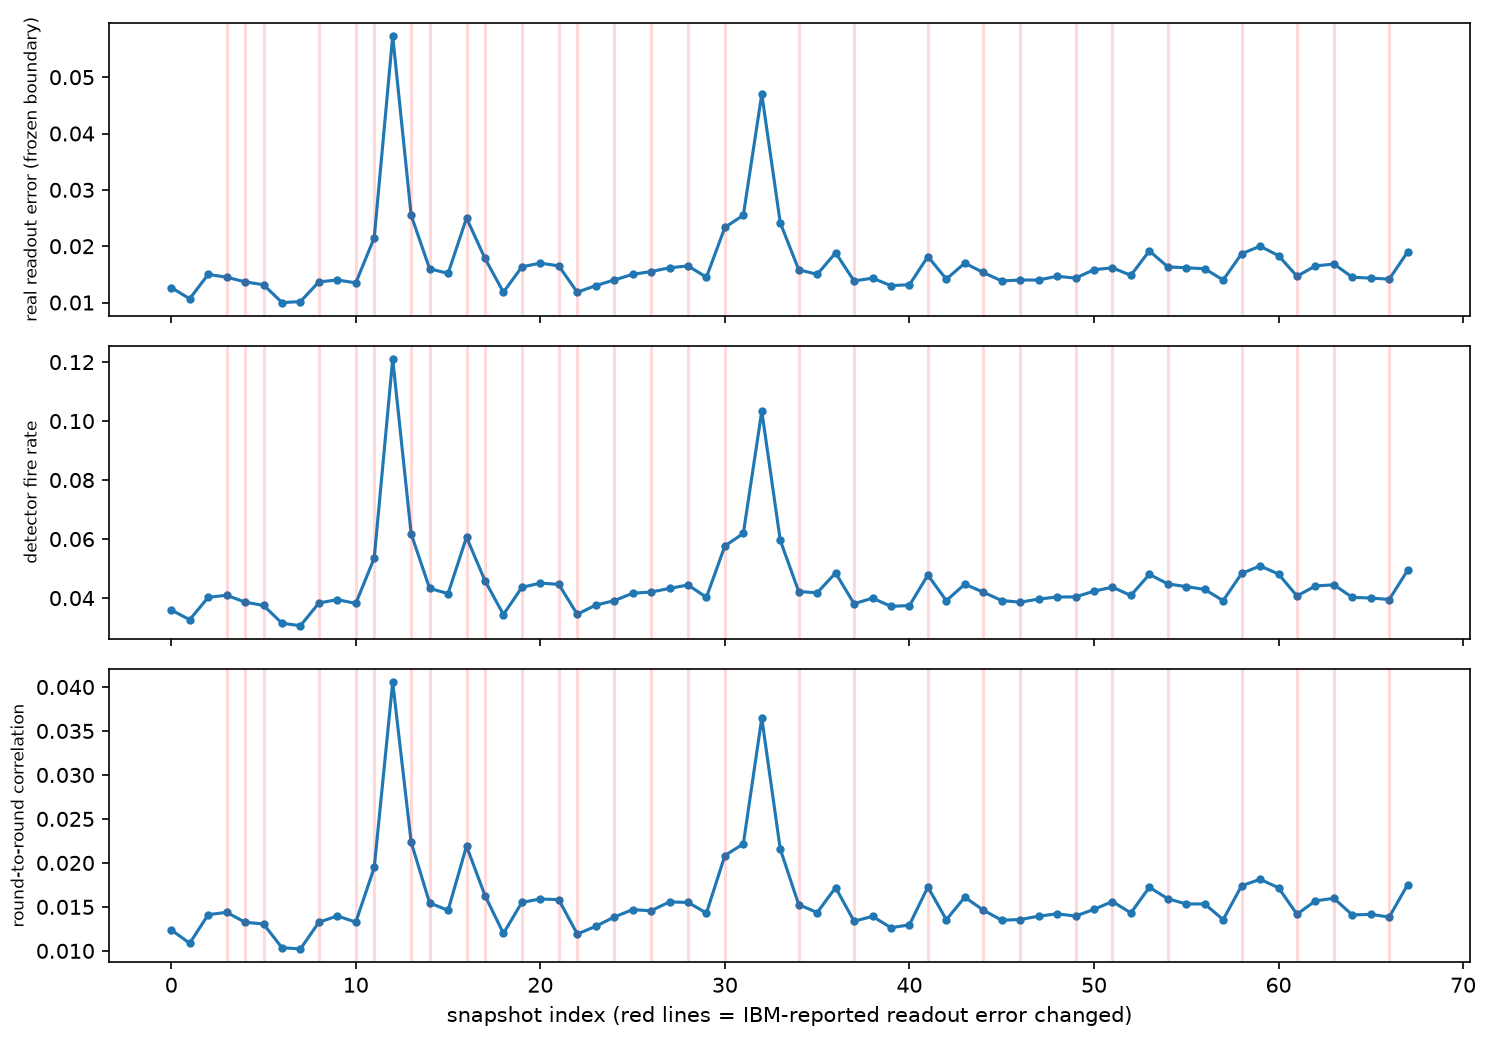
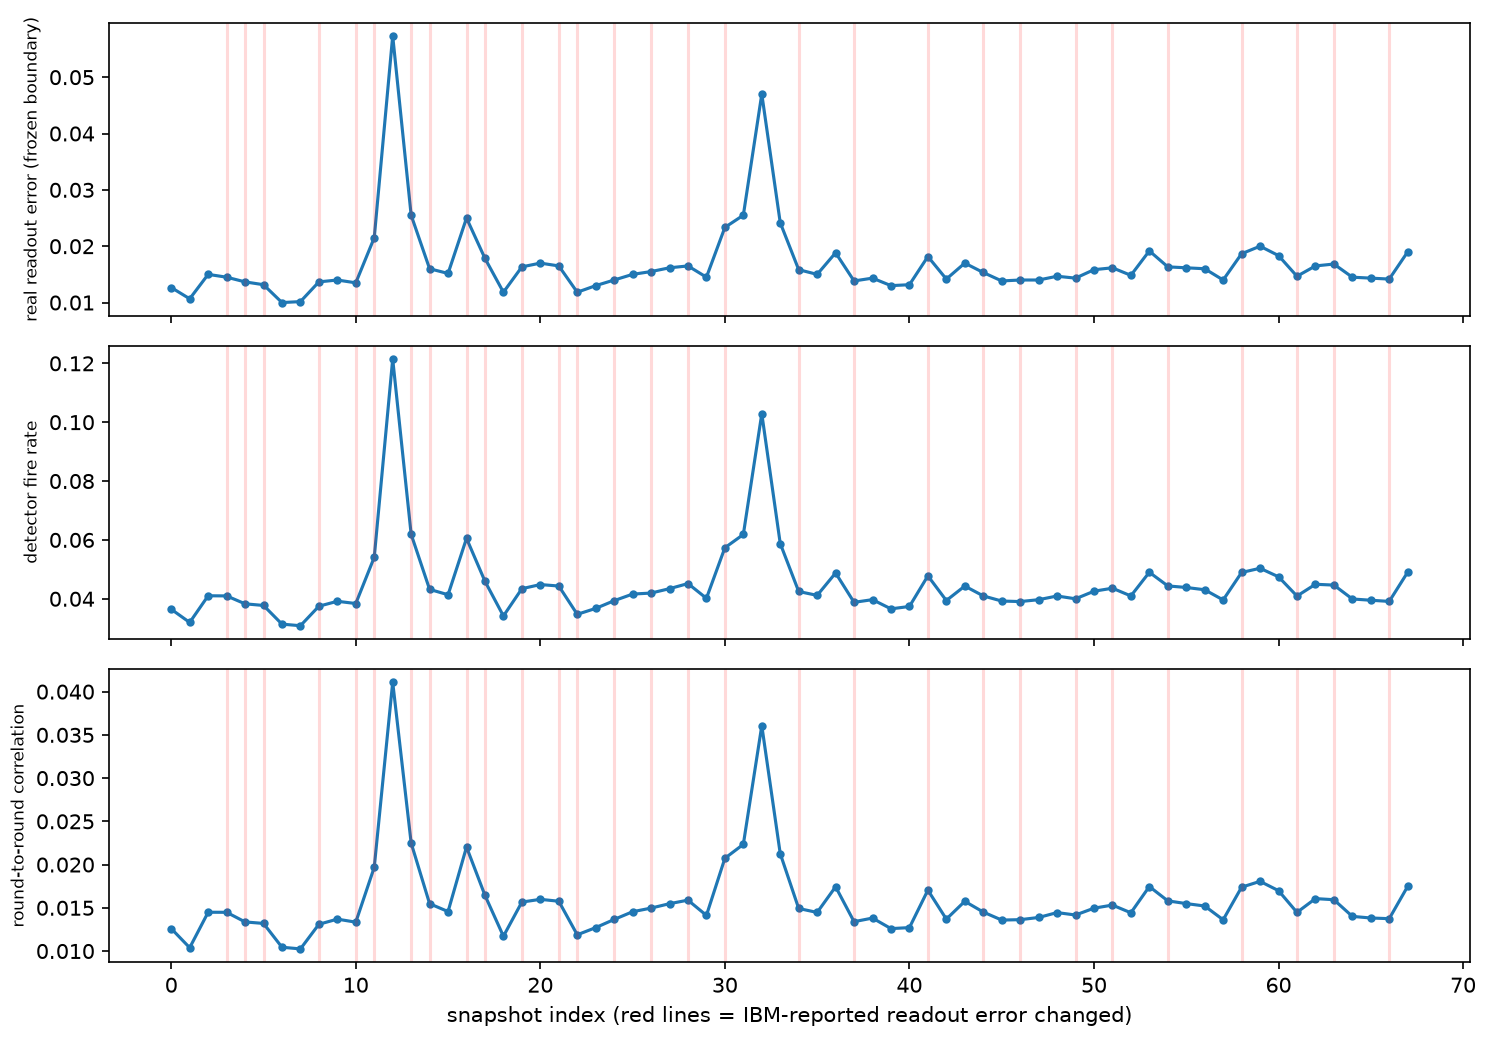
Refine real drift alarm threshold

diff --git a/real_drift_detector.py b/real_drift_detector.py
@@ -62,6 +62,8 @@ def main():
     ap.add_argument("--d", type=int, default=5)
     ap.add_argument("--shots", type=int, default=4000)
     ap.add_argument("--zthr", type=float, default=3.0, help="alarm threshold in baseline standard deviations")
+    ap.add_argument("--rel-rise", type=float, default=0.30,
+                    help="alarm also needs fire rate or correlation at least this fraction above the healthy level")
     args = ap.parse_args()
 
     snaps = load_snapshots(args.data_dir)
@@ -111,7 +113,16 @@ def main():
 
     z_fire = np.array([r[6] for r in rows])
     z_tc = np.array([r[7] for r in rows])
-    alarm = (z_fire > args.zthr) | (z_tc > args.zthr)
+    fire_arr = np.array([r[3] for r in rows]); tc_arr = np.array([r[4] for r in rows])
+    rise_fire = fire_arr / bf.mean() - 1.0
+    rise_tc = tc_arr / bt.mean() - 1.0
+
+    def alarm_rule(rel):
+        sig = (z_fire > args.zthr) | (z_tc > args.zthr)
+        big_enough = (rise_fire > rel) | (rise_tc > rel)
+        return sig & big_enough
+
+    alarm = alarm_rule(args.rel_rise)
 
     print(f"\nbaseline noise: fire rate {bf.mean():.4f} +/- {bf.std():.4f}, tcorr {bt.mean():.5f} +/- {bt.std():.5f}")
     print(f"snapshots with alarm (z > {args.zthr}): {alarm.sum()} of {len(alarm)}")
@@ -124,6 +135,14 @@ def main():
         print(f"  alarms when IBM numbers changed: {(alarm & recal).sum()} of {recal.sum()}")
     big = p_ro > 2 * p_base
     print(f"\nbig drift events (readout error > 2x healthy baseline): {big.sum()}  ->  alarms on them: {(alarm & big).sum()} of {big.sum()}")
+    quiet = p_ro < 1.25 * p_base
+    print(f"quiet snapshots (readout error < 1.25x baseline): {quiet.sum()}")
+    print(f"\nalarm rule: z > {args.zthr} AND rise above healthy > rel-rise")
+    print("  rel-rise | alarms total | big events caught | false alarms on quiet snapshots")
+    for rel in (0.0, 0.05, 0.10, 0.15, 0.20, 0.30, 0.50):
+        a = alarm_rule(rel)
+        mark = "  <- used" if abs(rel - args.rel_rise) < 1e-9 else ""
+        print(f"   {rel:5.2f}   |   {a.sum():4d}       |   {(a & big).sum()} of {big.sum()}        |   {(a & quiet).sum()} of {quiet.sum()}{mark}")
     print("\nlargest readout-error snapshots:")
     for i in np.argsort(p_ro)[::-1][:5]:
         print(f"  {rows[i][0][:19]}  p={p_ro[i]:.4f}  z_fire={z_fire[i]:+.1f}  z_tcorr={z_tc[i]:+.1f}  alarm={bool(alarm[i])}")
